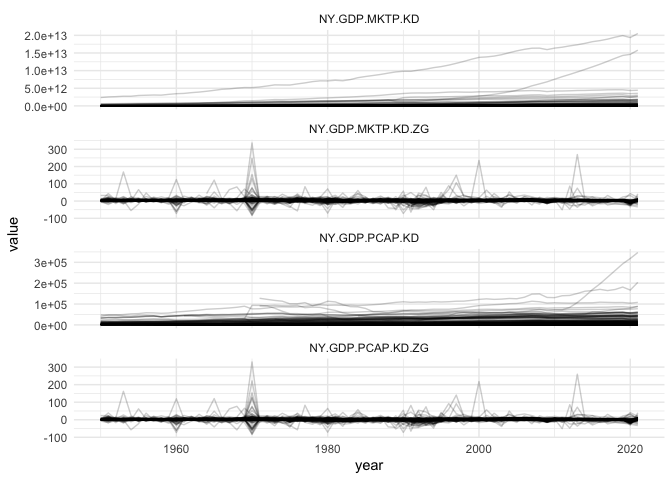
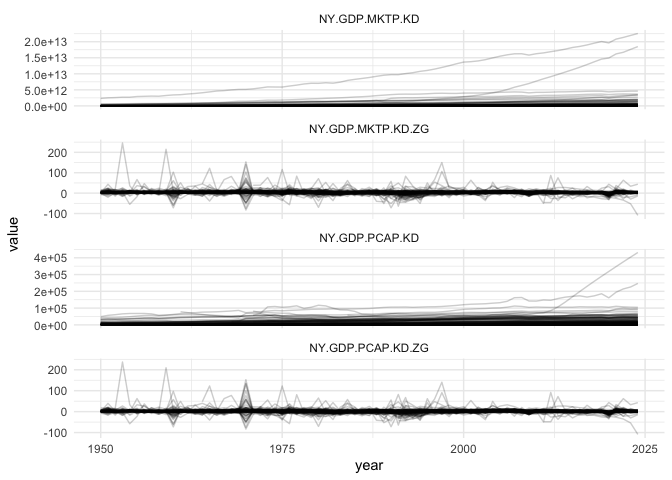
update GDP README

diff --git a/gdp/README.md b/gdp/README.md
@@ -1,7 +1,7 @@
 Combined GDP data
 ================
 
-*Last updated on: 2023-03-23*
+*Last updated on: 2026-01-13*
 
 GDP data from 1950 on, mostly based on WDI, with some gaps filled with
 KSG’s extended GDP data and data from the UN.
@@ -44,25 +44,25 @@ gdp <- read.csv("output/gdp.csv")
 str(gdp)
 ```
 
-    ## 'data.frame':    11597 obs. of  6 variables:
+    ## 'data.frame':    12188 obs. of  6 variables:
     ##  $ gwcode           : int  2 20 40 41 42 70 90 91 92 93 ...
     ##  $ year             : int  1950 1950 1950 1950 1950 1950 1950 1950 1950 1950 ...
-    ##  $ NY.GDP.MKTP.KD   : num  2.37e+12 1.60e+11 1.65e+10 5.06e+09 2.15e+09 ...
-    ##  $ NY.GDP.MKTP.KD.ZG: num  3.868 5.527 0.892 3.109 0 ...
-    ##  $ NY.GDP.PCAP.KD   : num  14931 11628 2791 1570 910 ...
-    ##  $ NY.GDP.PCAP.KD.ZG: num  0 3.09 0.23 2.16 0 ...
+    ##  $ NY.GDP.MKTP.KD   : num  2.34e+12 1.71e+11 1.66e+10 5.08e+09 2.14e+09 ...
+    ##  $ NY.GDP.MKTP.KD.ZG: num  3.84 3.92 0.9 2.81 0 ...
+    ##  $ NY.GDP.PCAP.KD   : num  15196 12463 2801 1555 898 ...
+    ##  $ NY.GDP.PCAP.KD.ZG: num  0 1.518 0.299 2.312 0 ...
 
 ``` r
 head(gdp)
 ```
 
     ##   gwcode year NY.GDP.MKTP.KD NY.GDP.MKTP.KD.ZG NY.GDP.PCAP.KD NY.GDP.PCAP.KD.ZG
-    ## 1      2 1950   2.371053e+12         3.8681393     14930.6888         0.0000000
-    ## 2     20 1950   1.596825e+11         5.5270544     11627.6513         3.0871166
-    ## 3     40 1950   1.652448e+10         0.8917382      2791.2969         0.2297816
-    ## 4     41 1950   5.057760e+09         3.1089622      1570.2453         2.1630856
-    ## 5     42 1950   2.152550e+09         0.0000000       910.1691         0.0000000
-    ## 6     70 1950   7.545591e+10         6.5071637      2700.1579         3.2440247
+    ## 1      2 1950   2.343209e+12         3.8447774     15195.6436         0.0000000
+    ## 2     20 1950   1.712624e+11         3.9190086     12462.9252         1.5181253
+    ## 3     40 1950   1.659334e+10         0.8999262      2800.7951         0.2988148
+    ## 4     41 1950   5.079304e+09         2.8095748      1555.3456         2.3119846
+    ## 5     42 1950   2.136579e+09         0.0000000       897.7624         0.0000000
+    ## 6     70 1950   8.187418e+10         6.4484984      2967.7528         3.7185531
 
 ``` r
 stats <- yaml::read_yaml("output/gdp-signature.yml")
@@ -73,13 +73,13 @@ stats
     ## [1] "tbl_df, tbl, data.frame"
     ## 
     ## $Size_in_mem
-    ## [1] "0.8 Mb"
+    ## [1] "1.3 Mb"
     ## 
     ## $N_countries
     ## [1] 204
     ## 
     ## $Years
-    ## [1] "1950 - 2021"
+    ## [1] "1950 - 2024"
     ## 
     ## $N_columns
     ## [1] 6
@@ -88,10 +88,10 @@ stats
     ## [1] "gwcode, year, NY.GDP.MKTP.KD, NY.GDP.MKTP.KD.ZG, NY.GDP.PCAP.KD, NY.GDP.PCAP.KD.ZG"
     ## 
     ## $N_rows
-    ## [1] 11597
+    ## [1] 12188
     ## 
     ## $N_complete_rows
-    ## [1] 11565
+    ## [1] 12150
 
 ``` r
 gdp %>%
@@ -102,6 +102,7 @@ gdp %>%
   theme_minimal()
 ```
 
-    ## Warning: Removed 61 rows containing missing values (`geom_line()`).
+    ## Warning: Removed 73 rows containing missing values or values outside the scale range
+    ## (`geom_line()`).
 
 ![](README_files/figure-gfm/unnamed-chunk-1-1.png)<!-- -->
